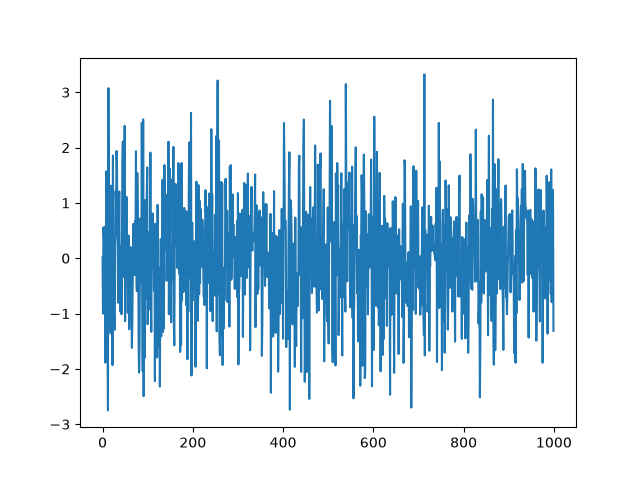
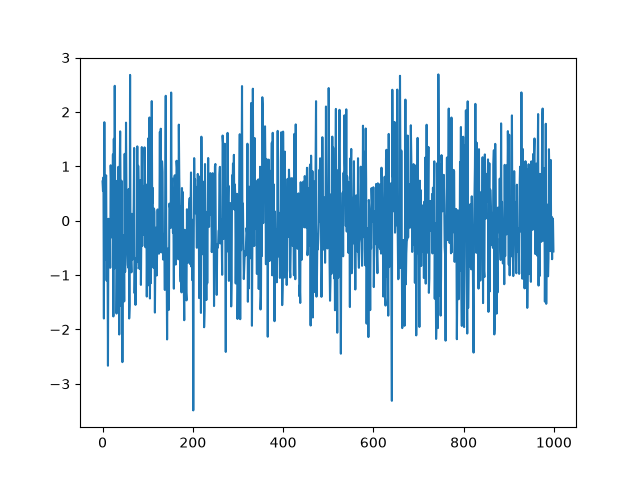
herşey oku kodu bir daha oku

diff --git a/ex2/oracle.py b/ex2/oracle.py
@@ -1,64 +1,90 @@
 import os
+import sys
 
-from dotenv import load_dotenv
+
+import os
+import sys
+
+
+def security_check(config: dict[str, str | None]) -> None:
+    print("\nEnvironment security check:")
+
+    with open(__file__) as f:
+        source = f.read()
+    leaked = [v for v in (config["API_KEY"], config["DATABASE_URL"])
+              if v and v in source]
+    print("[OK] No hardcoded secrets detected" if not leaked
+          else "[WARN] Secret found in source code!")
+
+    print("[OK] .env file properly configured" if os.path.isfile(".env")
+          else "[WARN] .env file not found")
+
+    print("[OK] Production overrides available")
 
 
 def main() -> None:
+    try:
+        from dotenv import load_dotenv
+    except ImportError:
+        print("install dotenv")
+        sys.exit(1)
     if not load_dotenv():
         print("WARNING: .env file not found")
 
     names = ["MATRIX_MODE", "DATABASE_URL", "API_KEY",
              "LOG_LEVEL", "ZION_ENDPOINT"]
     config = {name: os.getenv(name) for name in names}
-
-    print("ORACLE STATUS: Reading the Matrix...")
-
-    for name, value in config.items():
-        if not value:
-            print(f"WARNING: {name} is missing")
-
     mode = config["MATRIX_MODE"]
+    if mode not in ("development", "production"):
+        print("ERROR: MATRIX_MODE must be 'development' or 'production'")
+        sys.exit(1)
     print("Configuration loaded:")
-    print(f"Mode: {mode}")
 
     if mode == "development":
-        print("Database: Connected to local instance")
-    elif mode == "production":
-        print("Database: Connected to production database")
-    else:
-        print("WARNING: MATRIX_MODE is invalid")
+        print("Mode: development")
+        if config["DATABASE_URL"]:
+            print("Database: Connected to local instance")
+        else:
+            print("Database: missing")
+        
+        if config["API_KEY"]:
+            print("API Access: Authenticated")
+        else:
+            print("API key missing")
+        
+        if config["LOG_LEVEL"]:
+            print(f"LOG LEVEL: {config["LOG_LEVEL"]}")
+        else:
+            print("LOG LEVEL: DEBUG")
+        if config["ZION_ENDPOINT"]:
+            print("Zion Network: Online")
+        else:
+            print("Zion Network: Offline")
 
-    if config["API_KEY"]:
-        print("API Access: Authenticated")
-    else:
-        print("API Access: Missing")
 
-    print(f"Log Level: {config['LOG_LEVEL']}")
+    if mode == "production":
+        print("Mode: production")
+        if config["DATABASE_URL"]:
+            print("Database: Connected to production database")
+        else:
+            print("Database: missing")
+        
+        if config["API_KEY"]:
+            print("API Access: Authenticated")
+        else:
+            print("API key missing")
+        
+        if config["LOG_LEVEL"]:
+            print(f"LOG LEVEL: {config["LOG_LEVEL"]}")
+        else:
+            print("LOG LEVEL: WARNING")
+        if config["ZION_ENDPOINT"]:
+            print("Zion Network: Online")
+        else:
+            print("Zion Network: Offline")
 
-    if config["ZION_ENDPOINT"]:
-        print("Zion Network: Online")
-    else:
-        print("Zion Network: Offline")
-
-    print("\nEnvironment security check:")
-
-    api_key = config["API_KEY"]
-    with open(__file__) as source_file:
-        source = source_file.read()
-
-    if api_key and api_key in source:
-        print("[KO] Hardcoded secret detected!")
-    else:
-        print("[OK] No hardcoded secrets detected")
-
-    if os.path.exists(".env"):
-        print("[OK] .env file properly configured")
-    else:
-        print("[KO] .env file not found")
-
-    print("[OK] Production overrides available")
-    print("\nThe Oracle sees all configurations.")
-
+    security_check(config)
 
 if __name__ == "__main__":
+    print("ORACLE STATUS: Reading the Matrix...")
     main()

diff --git a/ex1/loading.py b/ex1/loading.py
@@ -23,13 +23,12 @@ def check_dependencies() -> list[str]:
     return missing
 
 
-def ensure_dependencies() -> None:
-    missing = check_dependencies()
-    if missing:
-        print(f"\nMissing: {', '.join(missing)}")
-        print("Install with pip:    pip install -r requirements.txt")
-        print("Install with Poetry: poetry install")
-        sys.exit(1)
+def compare_managers() -> None:
+    print("\npip vs Poetry:")
+    print("pip:    requirements.txt, no lock file")
+    print("Poetry: pyproject.toml + poetry.lock, reproducible")
+    manager = "Poetry" if "pypoetry" in sys.prefix else "pip/venv"
+    print(f"Running in: {manager} ({sys.prefix})")
 
 
 def analyze_and_plot() -> None:
@@ -39,9 +38,8 @@ def analyze_and_plot() -> None:
     matplotlib.use("Agg")
     plt = importlib.import_module("matplotlib.pyplot")
 
-    data = np.random.normal(size=1000)
-    df = pd.DataFrame({"signal": data})
-    print("Analyzing Matrix data...")
+    df = pd.DataFrame({"signal": np.random.normal(size=1000)})
+    print("\nAnalyzing Matrix data...")
     print(f"Processing {len(df)} data points...")
     print("Generating visualization...")
     plt.plot(df["signal"])
@@ -52,9 +50,14 @@ def analyze_and_plot() -> None:
 
 def main() -> None:
     print("LOADING STATUS: Loading programs...\n")
-    ensure_dependencies()
-    print()
+    missing = check_dependencies()
+    if missing:
+        print(f"\nMissing: {', '.join(missing)}")
+        print("pip:    pip install -r requirements.txt")
+        print("Poetry: poetry install")
+        sys.exit(1)
     analyze_and_plot()
+    compare_managers()
 
 
 if __name__ == "__main__":
